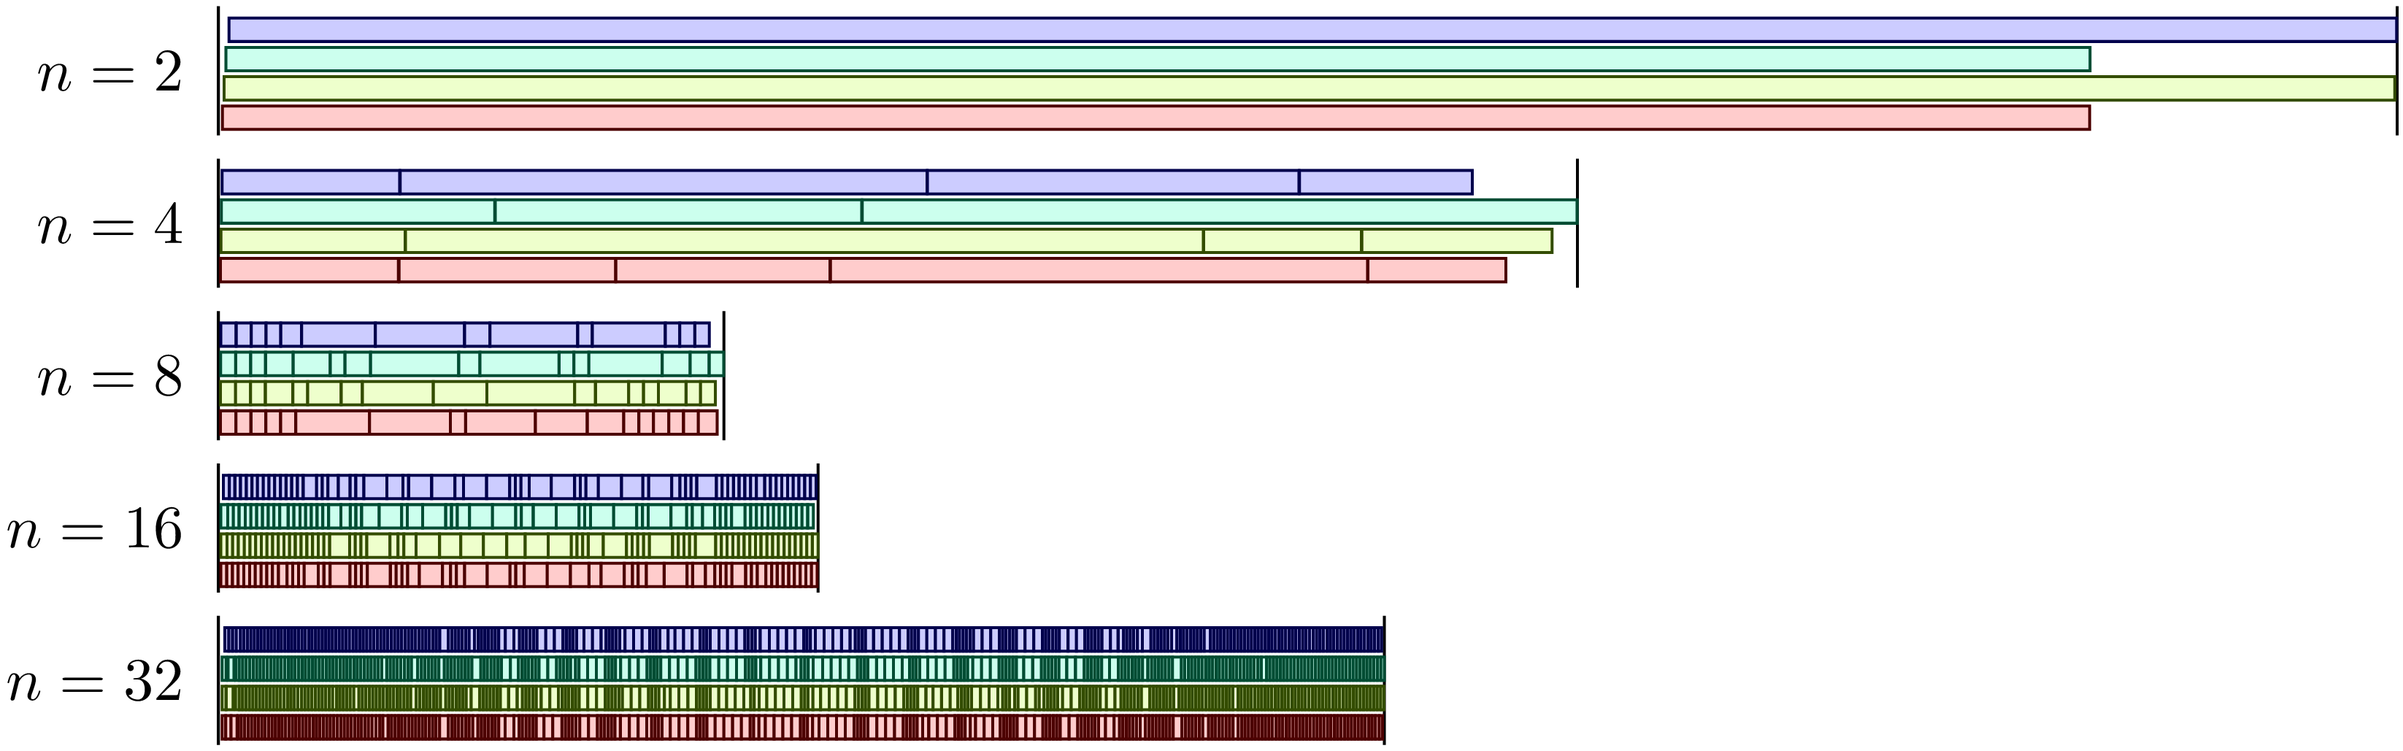
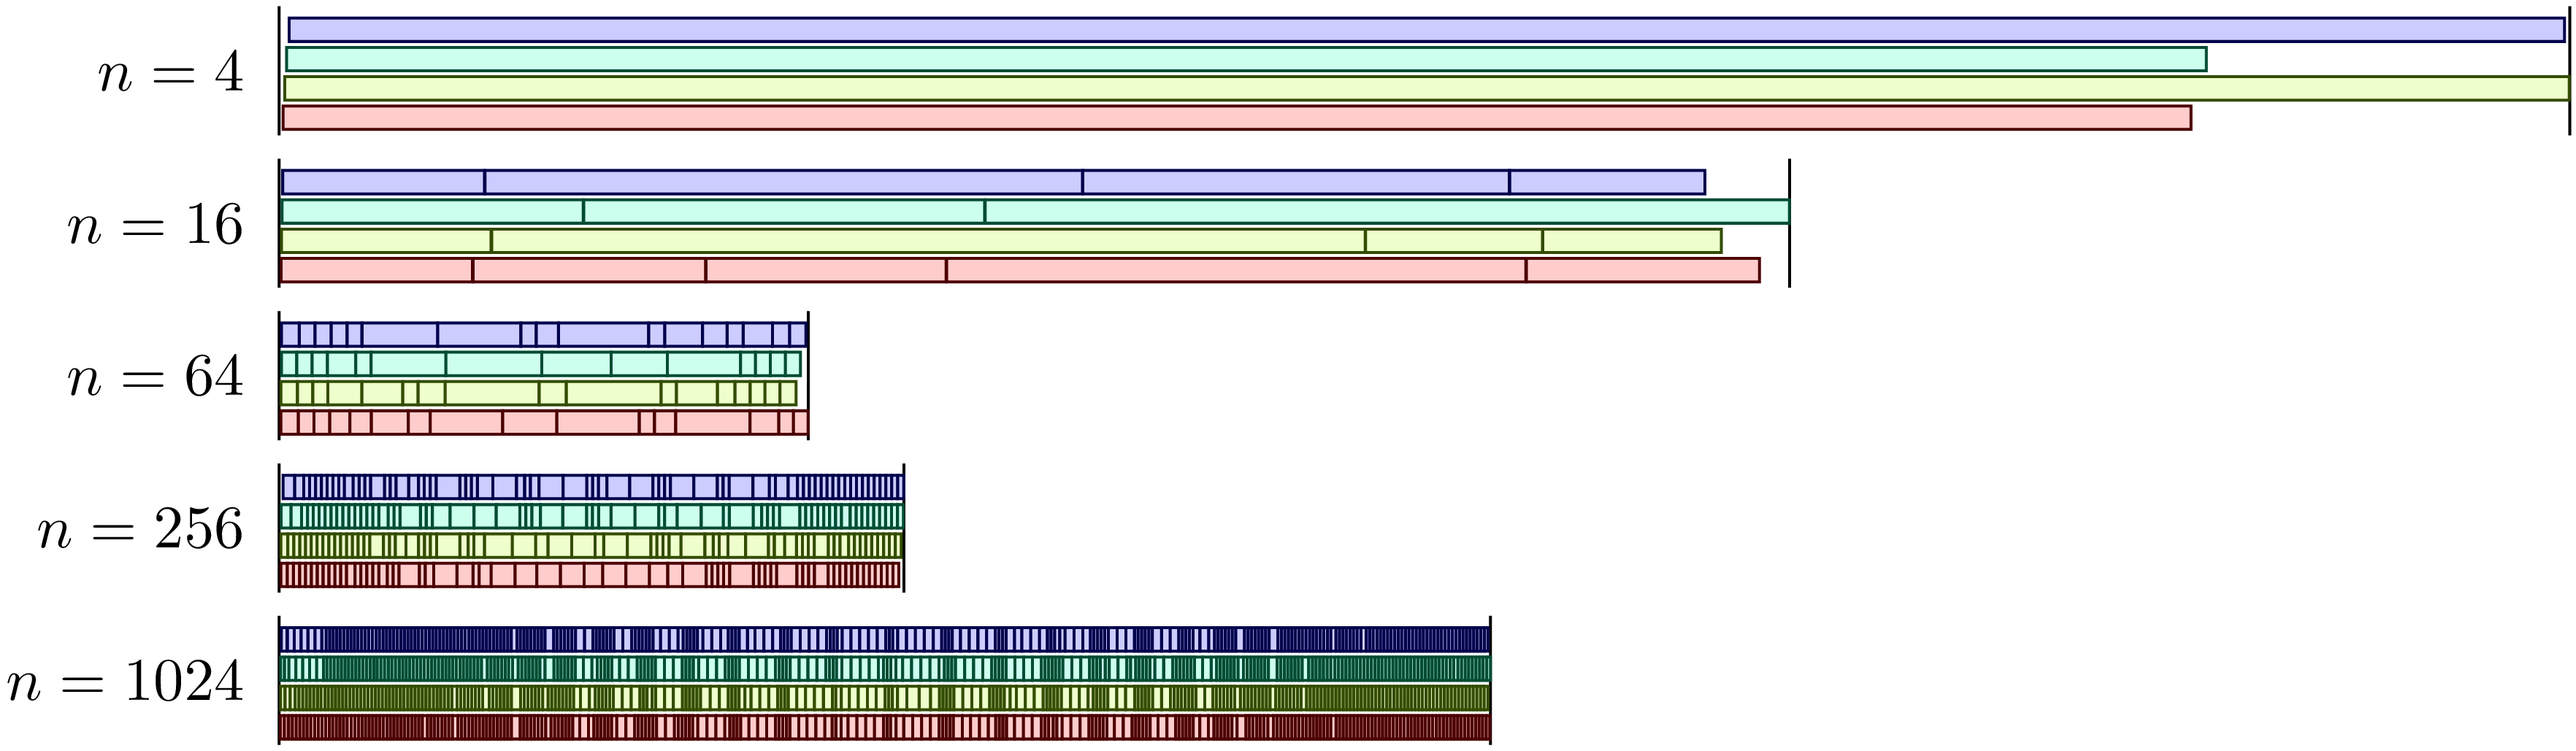
changed label to number of tiles

diff --git a/manuscript/imgsrc/parallel.py b/manuscript/imgsrc/parallel.py
@@ -58,7 +58,7 @@ for nr, ndiv in enumerate((2, 4, 8, 16, 32)):
     nrproc, start, ende, data = mandelbrot(xmin, xmax, width, ymin, ymax, height,
                       npts, ndiv, niter)
     offset = -(nrproc+1.2)*cellheight*nr
-    cnvs.text(-0.2, offset+2*cellheight, "$n=%s$" % ndiv,
+    cnvs.text(-0.2, offset+2*cellheight, "$n=%s$" % ndiv**2,
               [text.halign.right, text.valign.middle])
     cnvs.stroke(path.line(0, -0.2*cellheight+offset, 0,
         (nrproc+0.2)*cellheight+offset))
